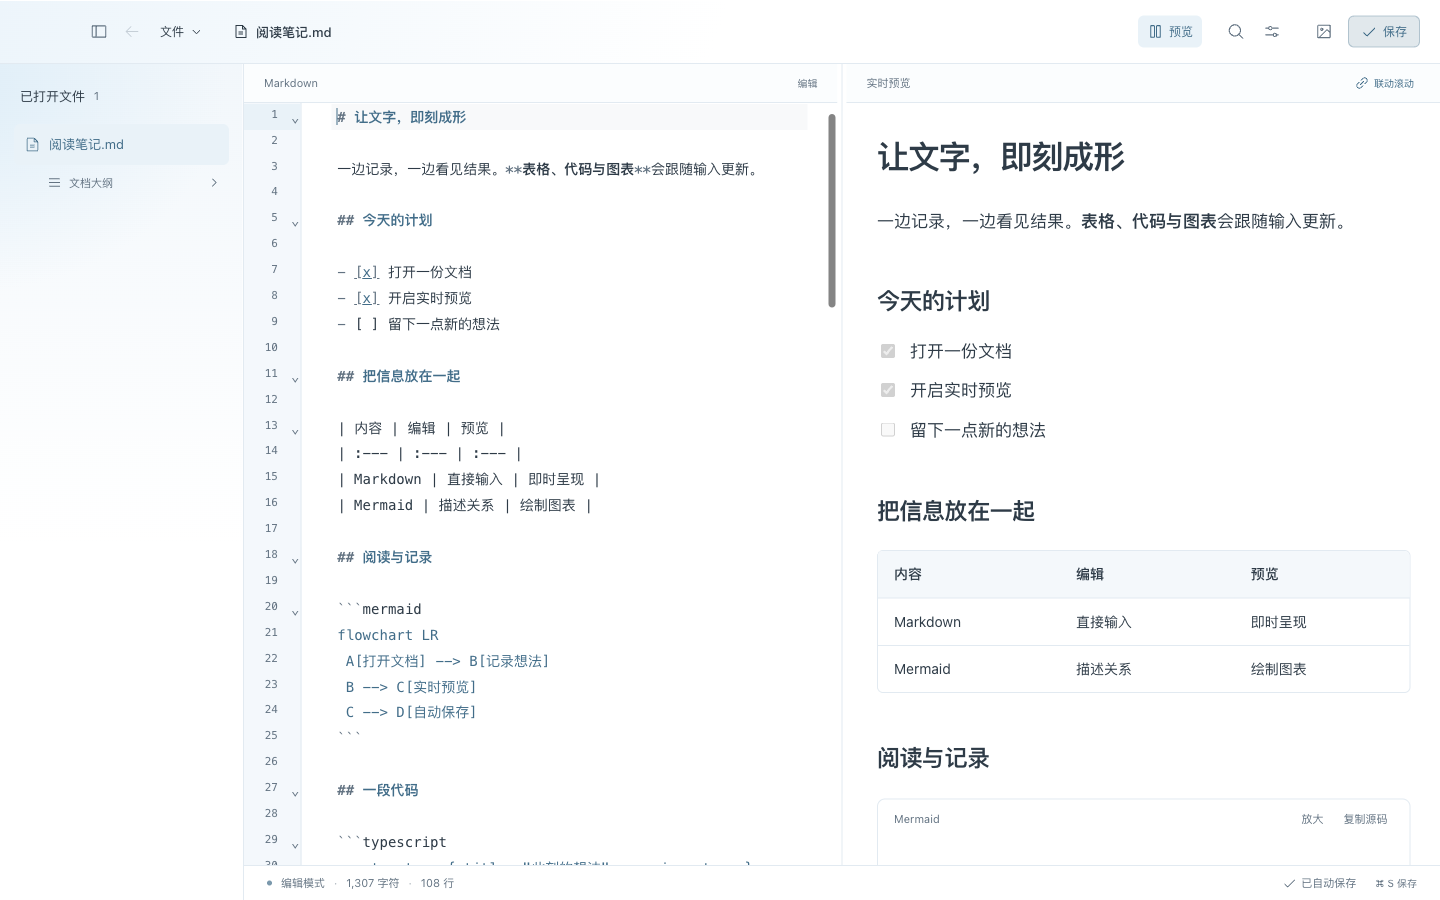
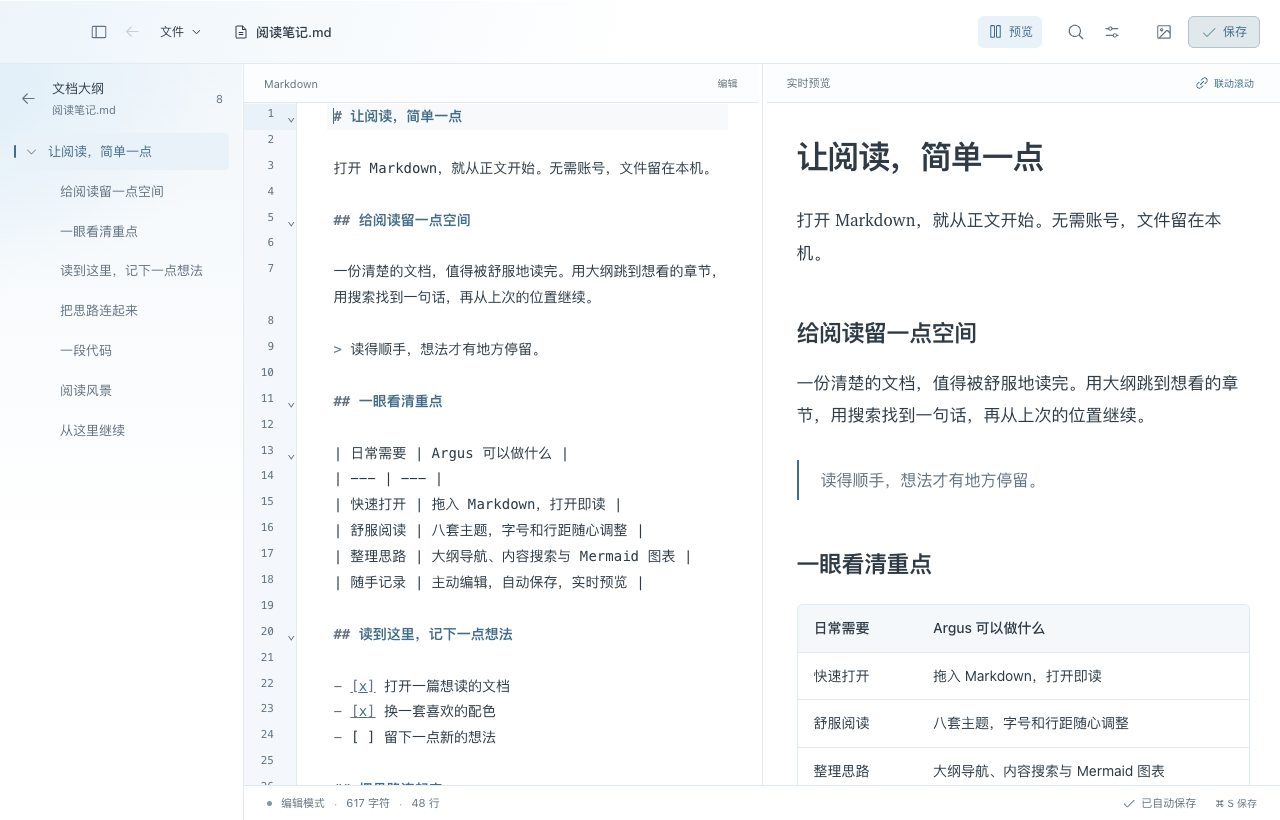
Highlight free lightweight reading and refresh product screenshots

diff --git a/README.md b/README.md
@@ -4,16 +4,18 @@
 
 # Argus
 
-### 安静地阅读，随手记下想法
+### 免费、轻量、好用的 Markdown 阅读器
 
-轻量的 macOS Markdown 阅读与编辑软件。默认阅读，主动编辑，文件始终在本机。
+为日常阅读 Markdown 而做，也能随手编辑。免费开源，无需账号，文件保存在本机。
 
 [![Version](https://img.shields.io/github/v/release/wylycool/argus?display_name=release&color=blue&label=version)](https://github.com/wylycool/argus/releases/latest)
 [![Platform](https://img.shields.io/badge/platform-macOS%2012%2B%20%C2%B7%20Apple%20Silicon-lightgrey)](https://github.com/wylycool/argus/releases/latest)
-[![Built with Tauri](https://img.shields.io/badge/built%20with-Tauri%202-orange)](https://tauri.app/)
+[![Free](https://img.shields.io/badge/price-免费-brightgreen)](LICENSE)
 [![Downloads](https://img.shields.io/github/downloads/wylycool/argus/total)](https://github.com/wylycool/argus/releases)
 [![License](https://img.shields.io/badge/license-MIT-green)](LICENSE)
 [![CI](https://img.shields.io/github/actions/workflow/status/wylycool/argus/ci.yml?branch=main&label=CI)](https://github.com/wylycool/argus/actions/workflows/ci.yml)
+
+[免费下载 macOS 版](https://github.com/wylycool/argus/releases/latest) · **当前安装包约 6 MB**
 
 简体中文 | [English](docs/open-source/README.en.md) | [下载安装](https://github.com/wylycool/argus/releases/latest) | [使用指南](docs/open-source/user-guide.md)
 
@@ -21,7 +23,19 @@
 
 ![Argus 阅读界面](docs/open-source/screenshots/reading.png)
 
-Argus 用来阅读、修改和整理本地 Markdown 文档。它使用系统 WebView，不内置 Chromium；没有账号，也没有云同步。打开文件即可阅读，需要修改时再进入编辑。
+## 为什么做 Argus
+
+我试用过不少 Markdown 阅读软件，有些阅读体验不够顺手，有些基础功能需要付费。我想要的其实很简单：打开一份 `.md`，就能舒服地读下去。
+
+所以我做了 Argus，并把它免费开源。它优先做好阅读：正文清楚、导航顺手、打开即读；需要修改时，再进入编辑。希望它也能成为你愿意留在电脑里的小工具。
+
+## 读 Markdown，简单一点
+
+- **免费使用**：没有订阅或付费解锁，源码以 MIT 许可证公开。
+- **轻量安装**：0.10.0 的 macOS 安装包约 6 MB，使用系统 WebView，不内置 Chromium。
+- **打开即读**：拖入 `.md` 就能阅读，通过大纲、搜索和阅读位置恢复继续上次进度。
+- **按喜好阅读**：八套主题，可调整字号、行距与正文宽度；代码、表格和 Mermaid 图表都能显示。
+- **文件在本机**：无需账号，不做云同步；需要时可编辑、自动保存或另存副本。
 
 ## 下载与安装
 
@@ -46,12 +60,12 @@ shasum -a 256 -c SHA256SUMS.txt
 2. 通过左侧文件列表和大纲阅读；用 `⌘ F` 查找当前文档，`⌘ ⇧ F` 搜索已打开文档。
 3. 点击“编辑”或按 `⌘ E` 开始修改，按需开启实时预览。输入自动保存；点击“保存”回到阅读。
 
-## 主要功能
+## 阅读之外，也能随手编辑
 
 | 功能       | 可以做什么                                                             |
 | ---------- | ---------------------------------------------------------------------- |
 | 阅读与排版 | Markdown、表格、任务列表、代码高亮、可折叠大纲、八套主题与字号行距调整 |
-| 编辑与预览 | CodeMirror 编辑器、撤销重做、分栏预览、双向滚动、窄窗口标签切换        |
+| 编辑与预览 | 撤销重做、实时分栏预览、双向滚动、窄窗口标签切换                       |
 | 文件与草稿 | 新建文档、自动保存、本机未命名草稿、冲突提示、只读文件保护             |
 | 图片与图表 | 插入或粘贴图片、图片放大、Mermaid 绘图与源码查看                       |
 | 搜索与导航 | 文内查找、已打开文档内容搜索、快速切换、最近阅读和返回上一处           |
@@ -59,7 +73,7 @@ shasum -a 256 -c SHA256SUMS.txt
 
 ![Argus 编辑与实时预览](docs/open-source/screenshots/live-preview.png)
 
-截图使用演示文档。完整用法、快捷键与容量限制见[使用指南](docs/open-source/user-guide.md)。
+截图使用当前版本界面与演示文档。完整用法、快捷键与容量限制见[使用指南](docs/open-source/user-guide.md)。
 
 ## 隐私与文件安全
 

diff --git a/docs/open-source/README.en.md b/docs/open-source/README.en.md
@@ -4,15 +4,25 @@
 
 # Argus
 
-### A quiet place for Markdown
+### A free, lightweight Markdown reader for macOS
 
-A lightweight macOS Markdown reader and editor. Read first, edit when needed, keep your files local.
+Read Markdown comfortably, edit when needed. Free and open source, with no account required. Your files stay on your Mac.
 
 [简体中文](../../README.md) | English | [Download](https://github.com/wylycool/argus/releases/latest)
 
 </div>
 
 ![Argus reading view](screenshots/reading.png)
+
+## Why I built Argus
+
+After trying several Markdown readers, I kept running into an awkward reading experience or basic features behind a paywall. I wanted a small app that would simply open a `.md` file and make it pleasant to read.
+
+That is why I built Argus and made it free and open source. Reading comes first, with an outline, search, themes and reading-position restoration. Editing is there when you need it.
+
+## Free and lightweight
+
+No subscription or paid feature unlocks. The source is available under the MIT license. The 0.10.0 Apple Silicon DMG is about 6 MB and uses the system WebView rather than bundling Chromium.
 
 ## Download
 
